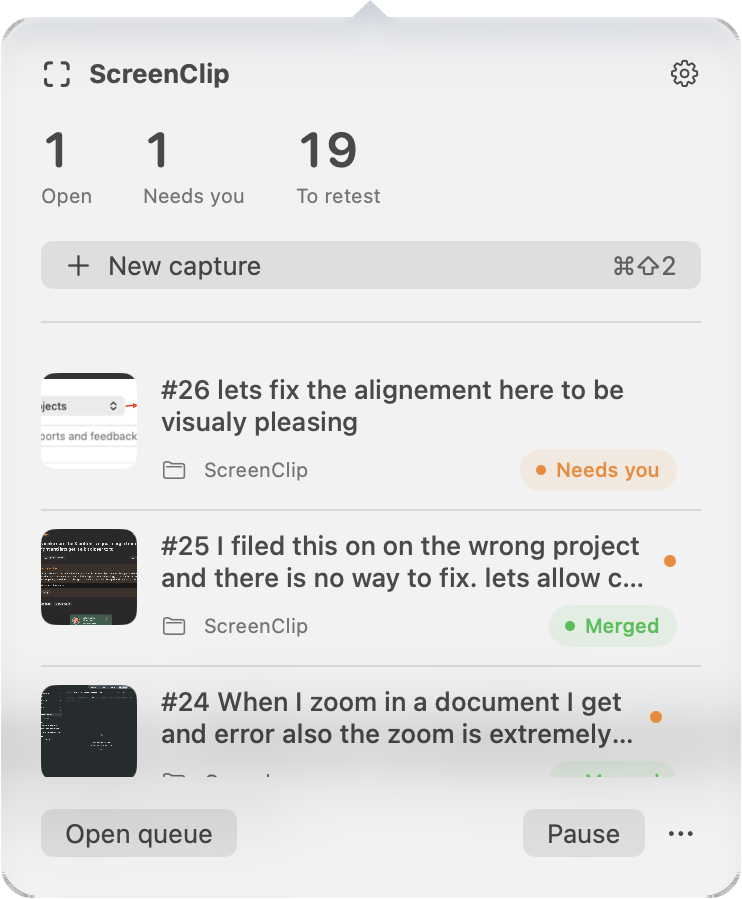
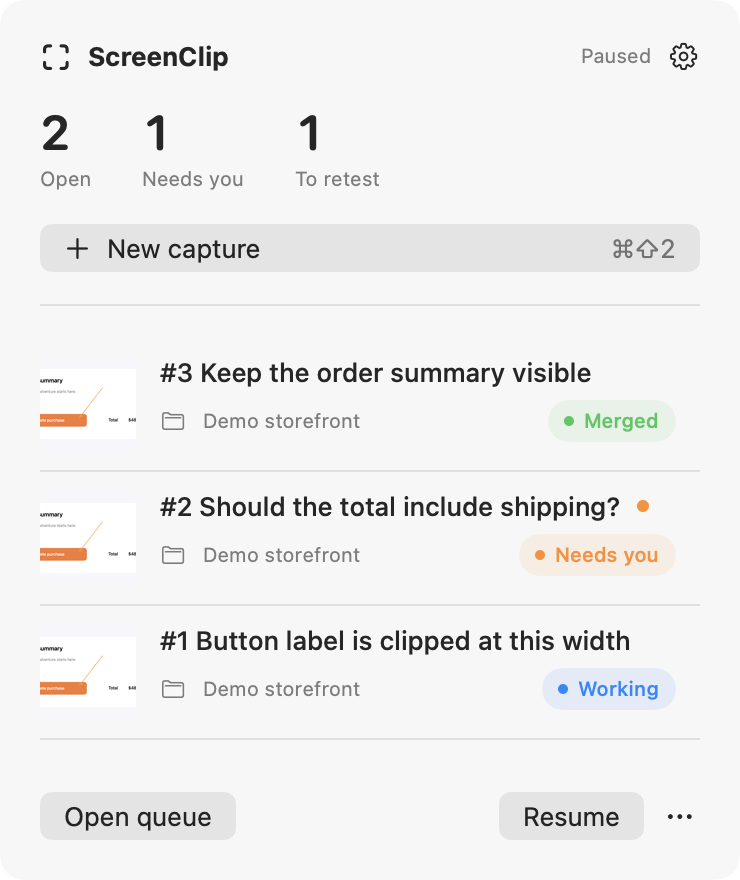
Use synthetic data in website screenshots

diff --git a/Sources/ScreenClip/PreviewSupport.swift b/Sources/ScreenClip/PreviewSupport.swift
@@ -159,17 +159,22 @@ import SwiftUI
       try bitmap.representation(using: .png, properties: [:])?.write(
         to: root.appendingPathComponent("settings-preview.png"))
     }
-    window.contentView = NSHostingView(
-      rootView: MenuPopover(model: model).preferredColorScheme(.dark))
     window.setContentSize(NSSize(width: 370, height: 440))
-    window.display()
-    RunLoop.main.run(until: Date().addingTimeInterval(0.5))
-    if let view = window.contentView,
-      let bitmap = view.bitmapImageRepForCachingDisplay(in: view.bounds)
-    {
-      view.cacheDisplay(in: view.bounds, to: bitmap)
-      try bitmap.representation(using: .png, properties: [:])?.write(
-        to: root.appendingPathComponent("menu-preview.png"))
+    for scheme in [ColorScheme.light, .dark] {
+      window.contentView = NSHostingView(
+        rootView: MenuPopover(model: model)
+          .background(scheme == .light ? Color(white: 0.97) : Color(white: 0.13))
+          .clipShape(RoundedRectangle(cornerRadius: 12))
+          .preferredColorScheme(scheme))
+      window.display()
+      RunLoop.main.run(until: Date().addingTimeInterval(0.5))
+      if let view = window.contentView,
+        let bitmap = view.bitmapImageRepForCachingDisplay(in: view.bounds)
+      {
+        view.cacheDisplay(in: view.bounds, to: bitmap)
+        try bitmap.representation(using: .png, properties: [:])?.write(
+          to: root.appendingPathComponent("menu-\(scheme == .light ? "light" : "dark")-preview.png"))
+      }
     }
     window.orderOut(nil)
   }

diff --git a/website/src/pages/home.html b/website/src/pages/home.html
@@ -10,11 +10,7 @@
         <h2 id="demo-title">{{demo.title}}</h2>
         <figure class="demo-figure">
           <picture>
-            <source media="(prefers-color-scheme: dark)" type="image/avif" srcset="@@POPUP_DARK_AVIF@@">
-            <source media="(prefers-color-scheme: dark)" type="image/webp" srcset="@@POPUP_DARK_WEBP@@">
             <source media="(prefers-color-scheme: dark)" type="image/png" srcset="@@POPUP_DARK_PNG@@">
-            <source type="image/avif" srcset="@@POPUP_LIGHT_AVIF@@">
-            <source type="image/webp" srcset="@@POPUP_LIGHT_WEBP@@">
             <img class="popup" src="@@POPUP_LIGHT_PNG@@" width="@@POPUP_W@@" height="@@POPUP_H@@" alt="{{demo.alt}}" fetchpriority="high">
           </picture>
           <figcaption>{{demo.caption}}</figcaption>

diff --git a/website/build.py b/website/build.py
@@ -617,8 +617,8 @@ def check_output(config, pages):
         raise SystemExit("The menu bar image must be eager, sized, and described")
     if 'width="' not in lcp.group(0) or 'height="' not in lcp.group(0):
         raise SystemExit("The menu bar image needs explicit width and height")
-    if "image/avif" not in home or "image/webp" not in home or "prefers-color-scheme: dark" not in home:
-        raise SystemExit("The menu bar picture is missing a dark or modern source")
+    if "image/png" not in home or "prefers-color-scheme: dark" not in home:
+        raise SystemExit("The menu bar picture is missing its dark source")
     for href in re.findall(r'(?:href|src|srcset)="([^"]+)"', text):
         if href.startswith(("https://", "http://", "mailto:")):
             continue
@@ -670,18 +670,14 @@ def build():
     css_href = fingerprinted(SRC / "styles.css", hashed)
     popup_width, popup_height = png_size(SRC / "assets" / "popup-light.png")
     popup = {
-        "POPUP_LIGHT_AVIF": fingerprinted(SRC / "assets" / "popup-light.avif", hashed),
-        "POPUP_LIGHT_WEBP": fingerprinted(SRC / "assets" / "popup-light.webp", hashed),
         "POPUP_LIGHT_PNG": fingerprinted(SRC / "assets" / "popup-light.png", hashed),
-        "POPUP_DARK_AVIF": fingerprinted(SRC / "assets" / "popup-dark.avif", hashed),
-        "POPUP_DARK_WEBP": fingerprinted(SRC / "assets" / "popup-dark.webp", hashed),
         "POPUP_DARK_PNG": fingerprinted(SRC / "assets" / "popup-dark.png", hashed),
         "POPUP_W": str(popup_width),
         "POPUP_H": str(popup_height),
     }
     home_preloads = [
-        (popup["POPUP_LIGHT_AVIF"], "(prefers-color-scheme: light)", "image/avif"),
-        (popup["POPUP_DARK_AVIF"], "(prefers-color-scheme: dark)", "image/avif"),
+        (popup["POPUP_LIGHT_PNG"], "(prefers-color-scheme: light)", "image/png"),
+        (popup["POPUP_DARK_PNG"], "(prefers-color-scheme: dark)", "image/png"),
     ]
     print("Drawing icons…")
     write_icons(assets)

diff --git a/website/README.md b/website/README.md
@@ -96,7 +96,7 @@ The build writes:
 - `manifest.webmanifest`, `favicon.ico`, an SVG icon, a 32×32 PNG, and an Apple touch icon.
 - `/privacy`, `/support`, and `404.html`. Localized privacy and support pages use the same paths under each locale prefix.
 
-CSS and the menu bar screenshots are fingerprinted under `/assets/h/`. Each screenshot is an AVIF, a WebP, and a PNG. The home page picks the light or dark set with `prefers-color-scheme`. `vercel.json` gives those files a one-year immutable cache. HTML, `og.png`, and the stable icons stay revalidated. The older capture-editor and queue PNGs in `src/assets/` are not part of the page.
+CSS and the synthetic menu bar screenshots are fingerprinted under `/assets/h/`. The home page picks the light or dark PNG with `prefers-color-scheme`. `vercel.json` gives those files a one-year immutable cache. HTML, `og.png`, and the stable icons stay revalidated. The older capture-editor and queue PNGs in `src/assets/` are not part of the page.
 
 On a Mac, `swift website/render-assets.swift` redraws `src/assets/og.png`. The icons in `dist/` are drawn by `build.py`.
 
